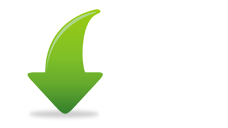
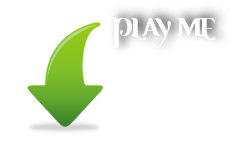
Tweak arrow.

diff --git a/static/css/style.css b/static/css/style.css
@@ -92,7 +92,7 @@ div.topbar ul li a:hover {
 }
 .arrow {
   height: 128px;
-  background: url(../images/down-arrow.png) 0 10px no-repeat;
+  background: url(../images/down-arrow.png) top left no-repeat;
 }
 .player {
   margin-left: 30px;
